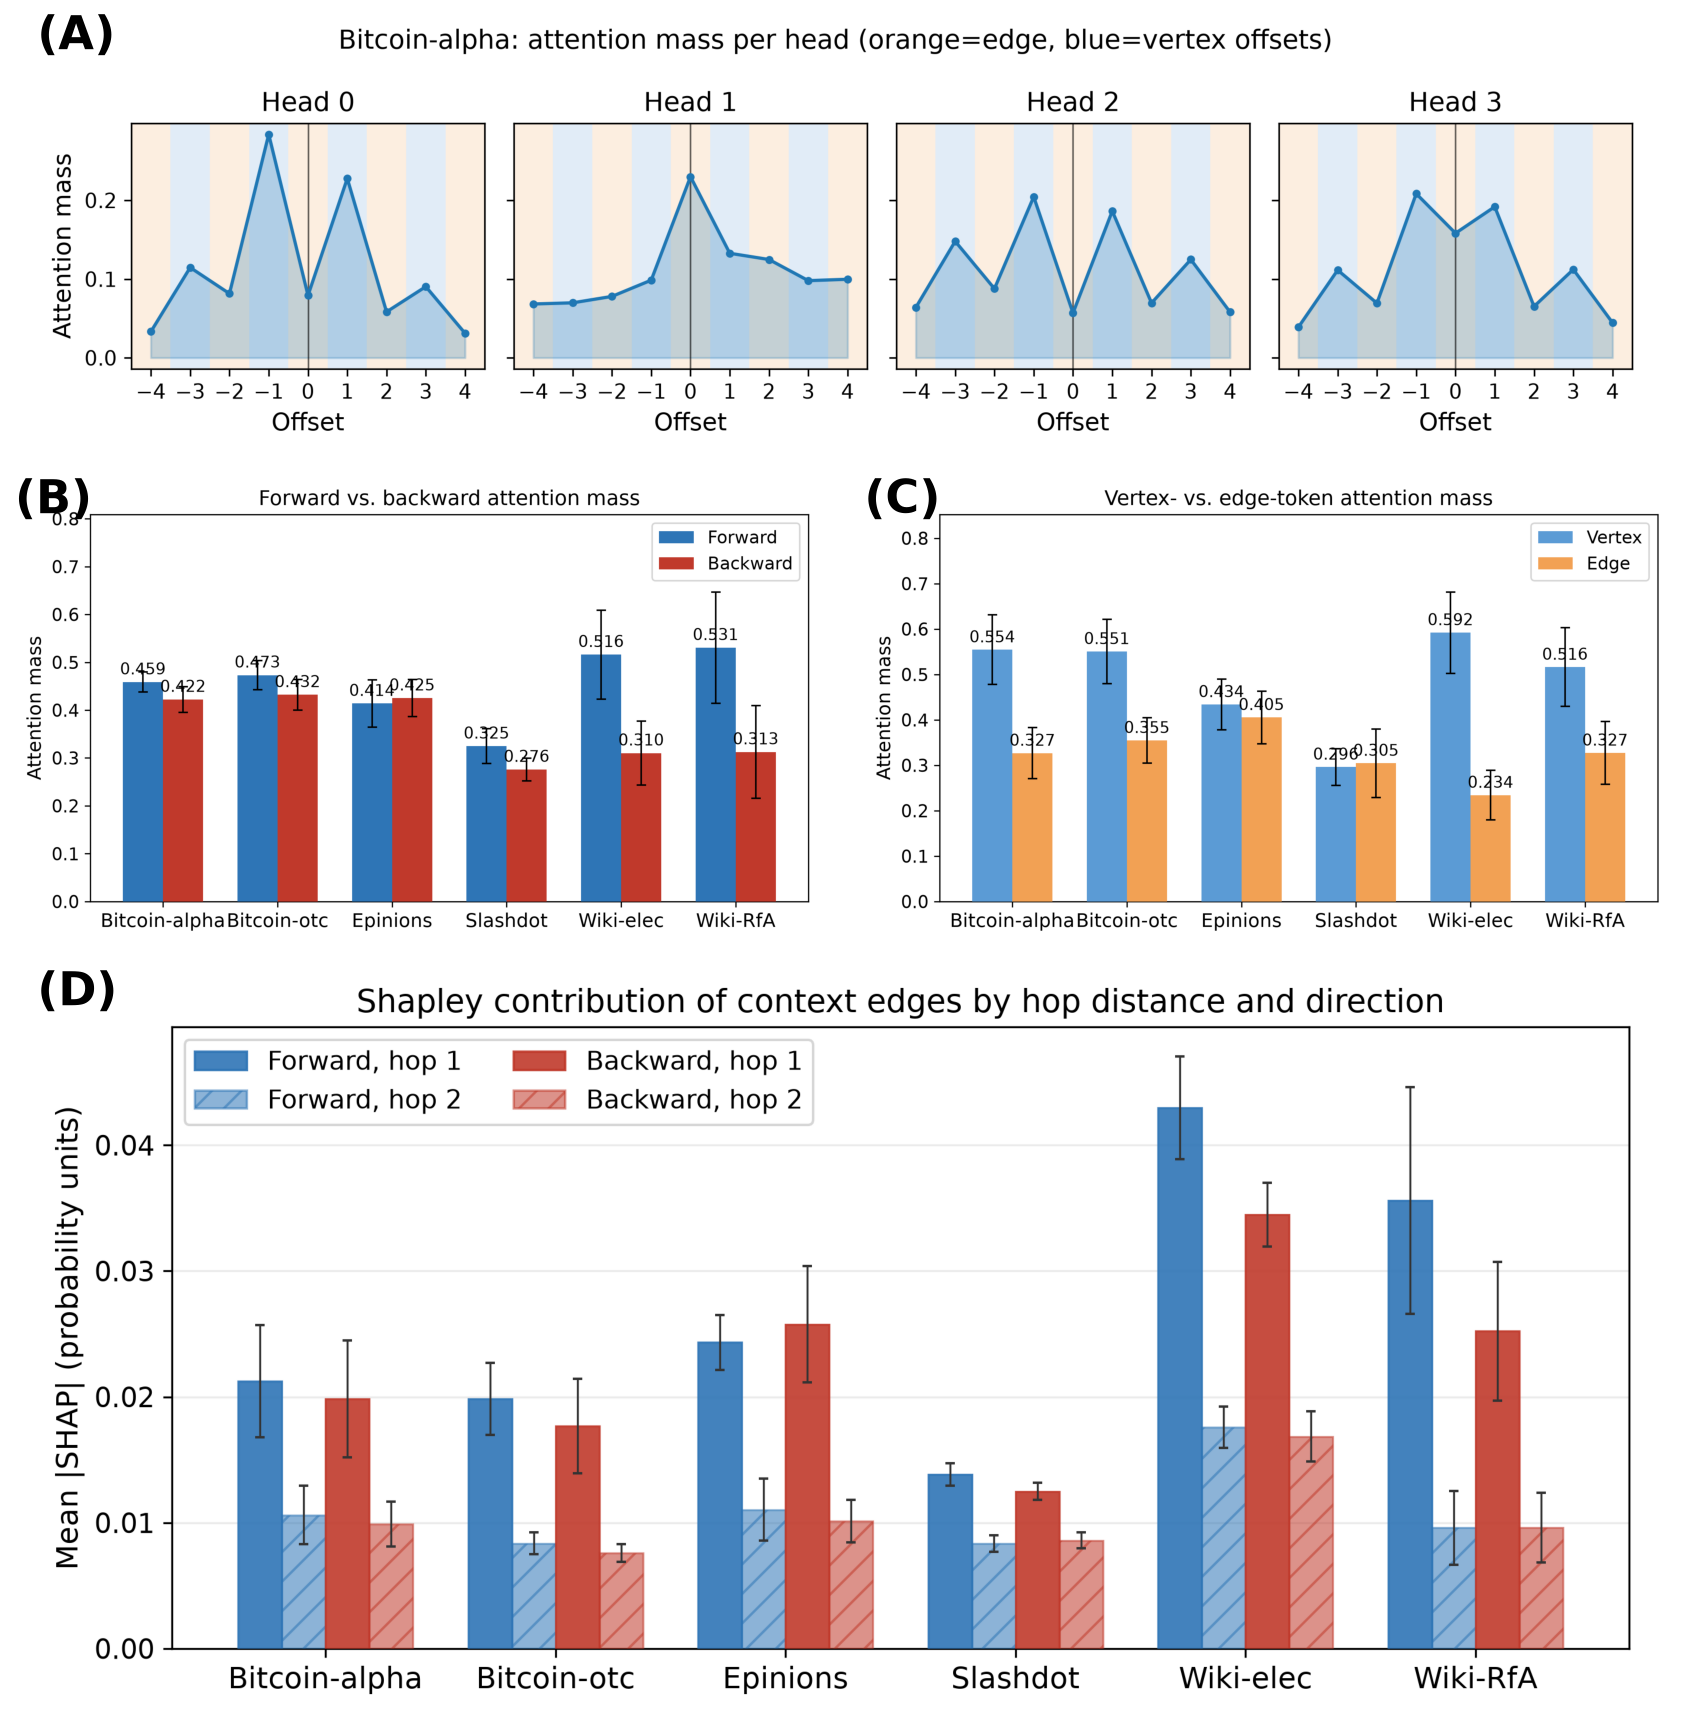
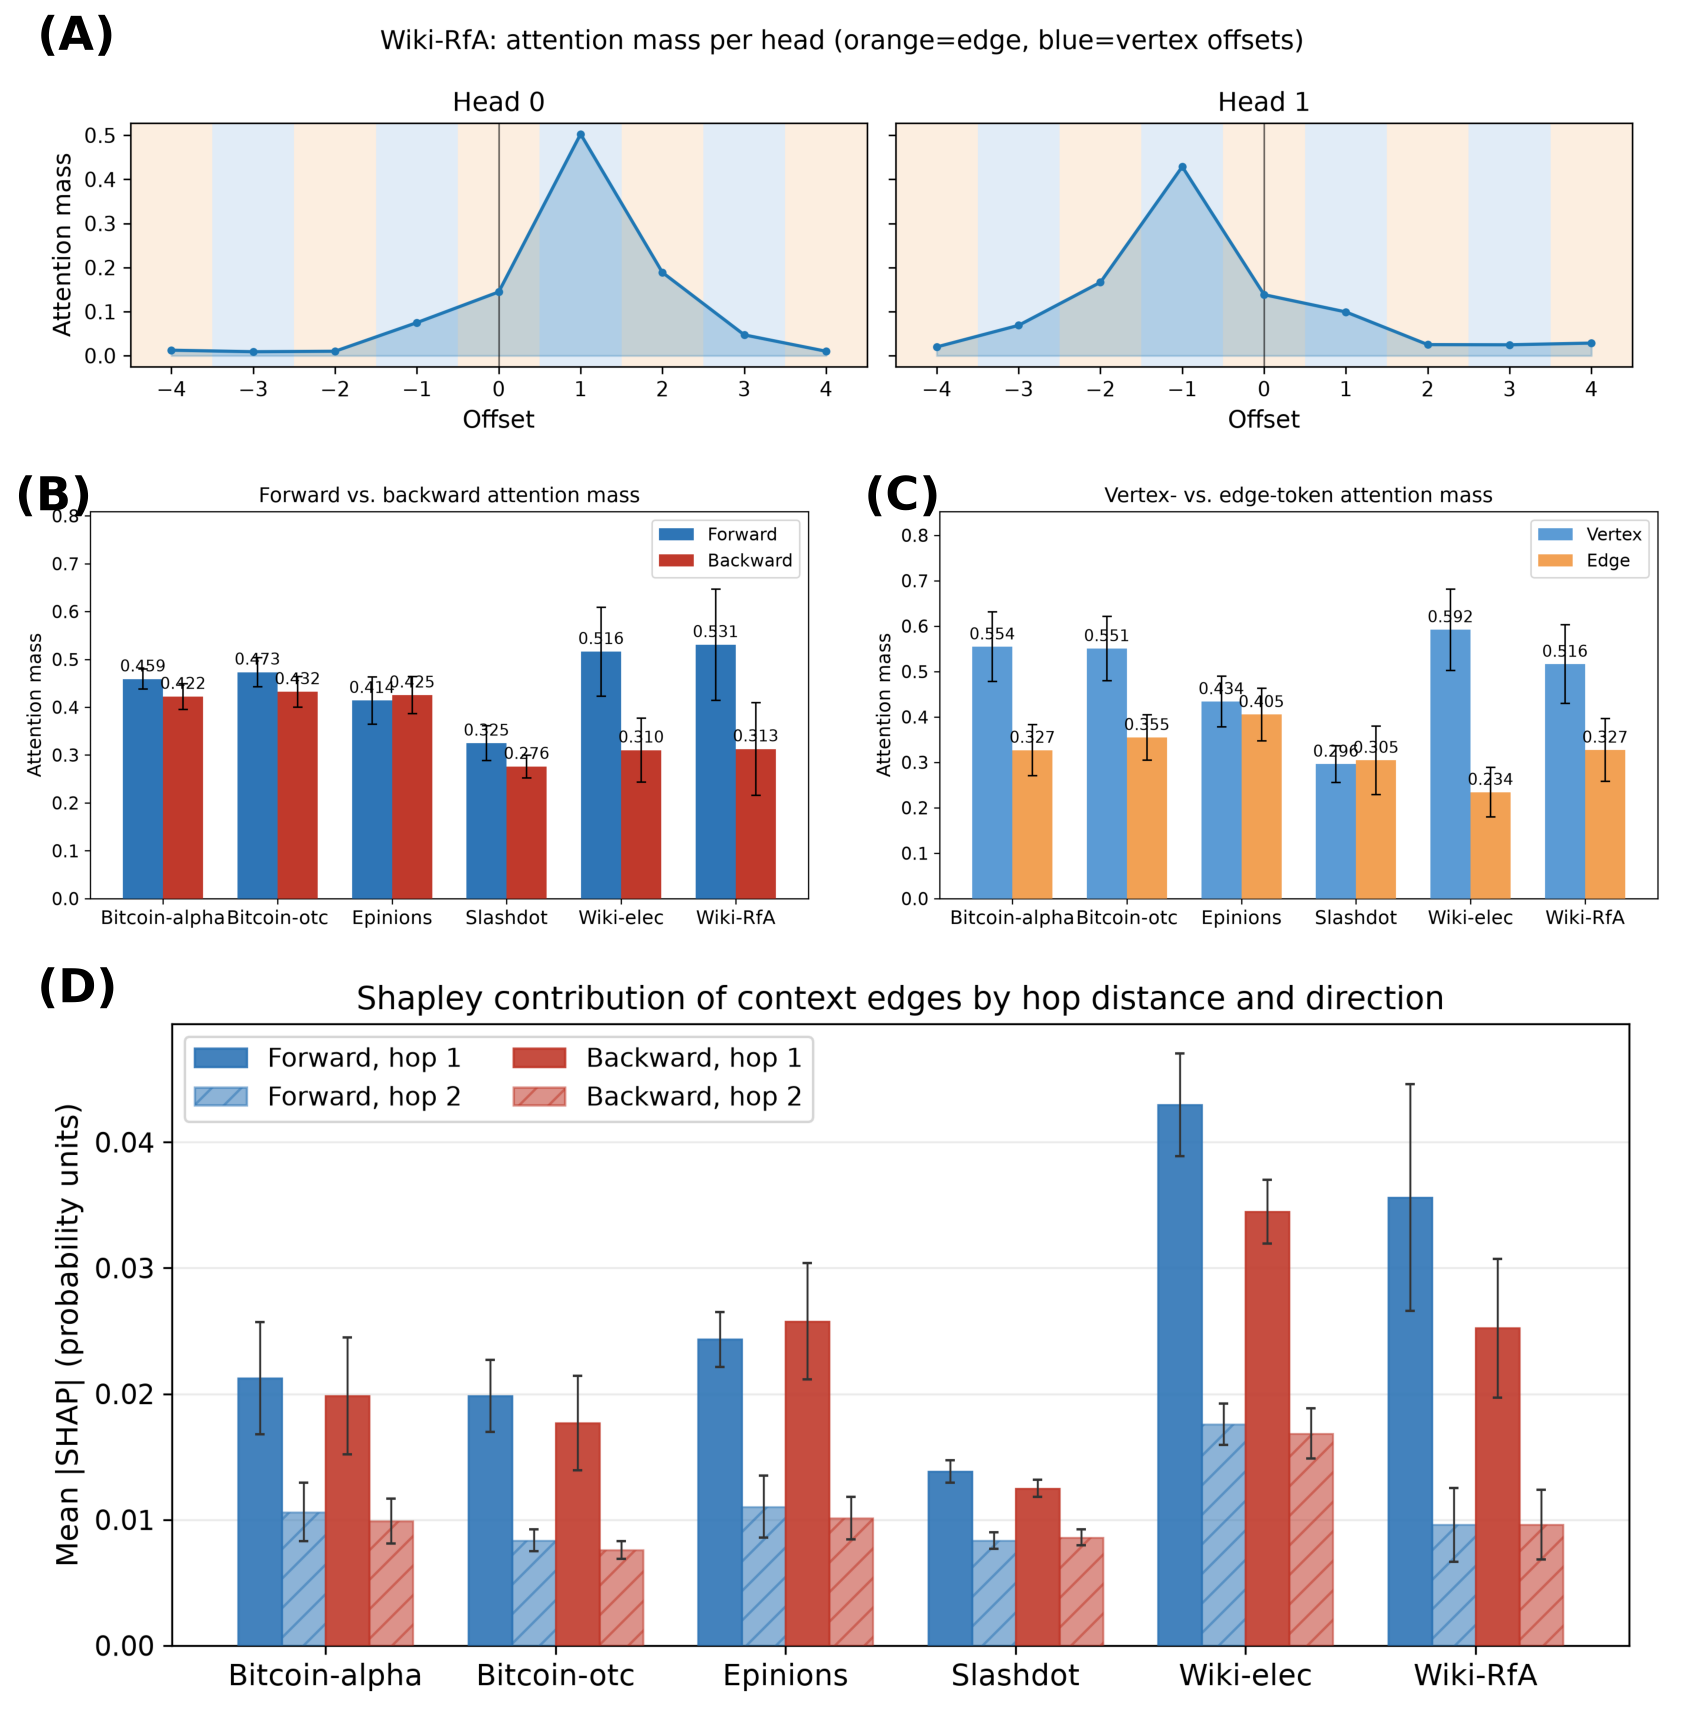
thesis text done

diff --git a/thesis/thesis.tex b/thesis/thesis.tex
@@ -43,7 +43,7 @@
 \email{anon@email.com}
 
 \begin{abstract}
-Signed networks on the web, such as trust ratings on marketplaces, reviewer endorsements, and adminship votes, carry labels (signs) on edges rather than on vertices. The dominant approach for predicting such signs is vertex-centric: a graph neural network (GNN) embeds the two endpoints and maps the pair of embeddings to an edge sign. We show that this design has an inherent limit. For vertex-centric message-passing GNNs whose edge prediction depends only on endpoint representations, WL equivalence induces a residual uncertainty when edges sharing the same endpoint representations have different signs. Empirically, baseline GNN accuracy on six public signed networks falls as this entropy rises. Edge sign is correlated over a short range - the mutual information between an edge sign and a neighboring edge sign drops by roughly three to six orders of magnitude between one and two hops in a BFS from the target vertex, so the usable signal is concentrated in a small signed neighborhood. Interestingly, the signal is not symmetric and depends on the graph family. We thus propose to condition on both the signed edges and the neighboring vertices near the target edge, instead of on only the two vertex summaries. We propose Pewter, which samples walks that pass through the target edge, classifies the masked target sign with a transformer that reads each walk as a token sequence of both vertices and edges, and combines the walks containing an edge by a confidence-weighted vote. Across six public signed networks, PEWTER improves test AUC over the best baseline on every dataset, with a mean gain of 3.3 percentage points. The improvement is largest in settings with high endpoint sign heterogeneity, consistent with the proposed endpoint bottleneck. Two further empirical observations are a source/target asymmetry in the model's attention, confirmed by a Shapley-contribution check, and a dataset-specific split in whether attention mass concentrates on vertex or edge tokens.
+Signed networks on the web, such as trust ratings on marketplaces, reviewer endorsements, and adminship votes, carry labels (signs) on edges rather than on vertices. The dominant approach for predicting such signs is vertex-centric: a graph neural network (GNN) embeds the two endpoints and maps the pair of embeddings to an edge sign. We show that this design has an inherent limit. For vertex-centric message-passing GNNs whose edge prediction depends only on endpoint representations, WL equivalence induces a residual uncertainty when edges sharing the same endpoint representations have different signs. Empirically, baseline GNN accuracy on six public signed networks falls as this entropy rises. Edge sign is correlated over a short range - the mutual information between an edge sign and a neighboring edge sign drops by roughly three to six orders of magnitude between one and two hops in a BFS from the target vertex, so the usable signal is concentrated in a small signed neighborhood. Interestingly, the signal is not symmetric and depends on the graph family. We thus propose to condition on both the signed edges and the neighboring vertices near the target edge, instead of on only the two vertex summaries. We propose Pewter, which samples walks that pass through the target edge, classifies the masked target sign with a transformer that reads each walk as a token sequence of both vertices and edges, and combines the walks containing an edge by a confidence-weighted vote. Across six public signed networks, PEWTER improves test AUC over the best baseline on every dataset, with a mean gain of 3.3 percentage points. The improvement is largest in settings with high endpoint sign heterogeneity, consistent with the proposed endpoint bottleneck. Two further empirical observations are a source/target asymmetry in the model's attention, confirmed by a Shapley-contribution check, and a preference of attention for vertex over edge tokens.
 \end{abstract}
 
 %% ACM Computing Classification System (CCS) Concepts
@@ -394,7 +394,7 @@ Attention allocation describes where the model places computational weight and s
 \begin{figure}[t!]
 \centering
 \includegraphics[width=\linewidth]{figures/attndir_panels_abcd_combined.png}
-\caption{Attention directionality and Shapley contribution of Pewter's first layer 0 over the six datasets. For each masked target-edge, attention mass is split by signed offset $d$ (position relative to the target, in token steps) and by token role (vertex vs.\ edge); self-attention ($d=0$) is excluded. (A) Per-head breakdown for the Bitcoin-alpha dataset (4 heads) over the window $d\in[-4,4]$ (labeled ``Offset'' on the plot axis): heads alternate their peak mass between vertex and edge offsets. (B) Forward vs.\ backward mass by dataset, mean over heads. (C) Vertex vs.\ edge mass by dataset, mean over heads. (D) Shapley contribution of context edges by hop distance and direction.}
+\caption{Attention directionality at Pewter's first layer (layer 0) and Shapley contribution of context edges, over the six datasets. For each masked target-edge, attention mass is split by signed offset $d$ (position relative to the target, in token steps) and by token role (vertex vs.\ edge); self-attention ($d=0$) is excluded from (B) and (C). (A) Per-head breakdown for the Wiki-RfA dataset (2 heads) over the window $d\in[-4,4]$ (labeled ``Offset'' on the plot axis), for one trained model (split 42): one head concentrates on the target vertex ($d=+1$), the other on the source vertex ($d=-1$). (B) Forward vs.\ backward mass by dataset, mean over heads. (C) Vertex vs.\ edge mass by dataset, mean over heads. (D) Shapley contribution of context edges by hop distance and direction. (B)--(D) show the mean over the 10 models trained on the 10 splits; error bars are $\pm1$ std across models.}
 \label{fig:attndir}
 \end{figure}
 
@@ -480,6 +480,6 @@ This work predicts trust and distrust signs on publicly available social and mar
 There is no funding to report
 \end{acks}
 \bibliographystyle{ACM-Reference-Format}
-\bibliography{pewter_references}
+\bibliography{references}
 
 \end{document}

diff --git a/experiments/edge_identity_tokens/eid_attention_multiseed_figure_data.py b/experiments/edge_identity_tokens/eid_attention_multiseed_figure_data.py
@@ -1,9 +1,12 @@
 """Thesis attention figure, panels B-D: mean over the 10 trained H3 models (splits 42-51), error bars =
 std across models (decided 2026-10-20; WSDM used one model, split 42, with SE across target edges).
-Panel A stays the split-42 Bitcoin-alpha per-head grid (heads are not comparable across models).
+Panel A: one model, Wiki-RfA split 42 (chosen 2026-10-21; WSDM showed Bitcoin-alpha split 42). Heads are
+not comparable across models, so A is not averaged; a target-vertex head (d=+1) recurs in 8/10 Wiki-RfA models
+(outputs/attn_shap_multiseed/h3_pmf, attn_headgrid_multiseed.py).
 
 Inputs: outputs/attn_shap_multiseed/{attention,shap}_per_seed.csv (attn_shap_multiseed.py --summarise).
 Writes, in the schemas the unchanged WSDM plot scripts read (thesis_figure_data/):
+  attndir_panelA_headgrid.csv,
   attndir_panelBC_summary.csv, attndir_panelBC_se.csv, shap_edge_directionality.csv
 The WSDM panel B/C plot scripts draw yerr = 1.96 * <x>_se, panel D draws yerr = cluster_se; to get
 +-1 std across models we store <x>_se = std / 1.96 and cluster_se = std. The split-42 versions are kept
@@ -18,10 +21,19 @@ import pandas as pd
 ROOT = os.path.dirname(os.path.dirname(os.path.dirname(os.path.abspath(__file__))))
 SRC = os.path.join(ROOT, "outputs", "attn_shap_multiseed")
 OUT = os.path.join(ROOT, "experiments", "edge_identity_tokens", "thesis_figure_data")
+PANEL_A = ("wiki-rfa", 42)
 DATASETS = ["bitcoin-alpha", "bitcoin-otc", "epinions", "slashdot090221", "wiki-elec", "wiki-rfa"]
 
 
 def main():
+    import numpy as np
+    ds, seed = PANEL_A
+    z = np.load(os.path.join(SRC, "h3_pmf", f"{ds}_s{seed}.npz"))
+    pmf, md = z["pmf"], int(z["max_dist"])
+    pd.DataFrame([{"dataset": ds, "layer": 0, "head": h, "d": d, "mass": float(pmf[0, h, d + md])}
+                  for h in range(int(z["nhead"])) for d in range(-4, 5)]).to_csv(
+        os.path.join(OUT, "attndir_panelA_headgrid.csv"), index=False)
+
     a = pd.read_csv(os.path.join(SRC, "attention_per_seed.csv"))
     a = a[a.model == "h3"]
     nhead = pd.read_csv(os.path.join(OUT, "attndir_panelBC_summary_s42.csv")).set_index("dataset")["nhead"]
@@ -48,7 +60,7 @@ def main():
     order = {ds: i for i, ds in enumerate(DATASETS)}
     shap = shap.sort_values(["dataset", "direction", "hop"], key=lambda c: c.map(order) if c.name == "dataset" else c)
     shap.to_csv(os.path.join(OUT, "shap_edge_directionality.csv"), index=False)
-    print(f"wrote {OUT}/attndir_panelBC_summary.csv, attndir_panelBC_se.csv, shap_edge_directionality.csv")
+    print(f"wrote {OUT}/attndir_panelA_headgrid.csv, attndir_panelBC_summary.csv, attndir_panelBC_se.csv, shap_edge_directionality.csv")
 
 
 if __name__ == "__main__":

diff --git a/scripts/paper_figures/plot_attndir_panelA_headgrid.py b/scripts/paper_figures/plot_attndir_panelA_headgrid.py
@@ -26,6 +26,7 @@ NODE_COLOR = "#5b9bd5"
 EDGE_COLOR = "#f2a154"
 
 
+PANEL_WIDTH_HEADS = None  # e.g. 4: draw a 2-head panel at the width of a 4-head one (thesis)
 DISPLAY_LABEL = {
     "bitcoin-alpha": "Bitcoin-alpha", "bitcoin-otc": "Bitcoin-otc", "epinions": "Epinions",
     "slashdot090221": "Slashdot", "wiki-elec": "Wiki-elec", "wiki-rfa": "Wiki-RfA",
@@ -44,7 +45,8 @@ def main():
         by_head[int(r["head"])][int(r["d"])] = float(r["mass"])
 
     nhead = len(heads)
-    fig, axes = plt.subplots(1, nhead, figsize=(2.8 * nhead, 3.0), sharey=True, squeeze=False)
+    width_heads = max(nhead, PANEL_WIDTH_HEADS or nhead)  # keep font size when a model has few heads
+    fig, axes = plt.subplots(1, nhead, figsize=(2.8 * width_heads, 3.0), sharey=True, squeeze=False)
     axes = axes[0]
 
     d_range = list(range(-window, window + 1))

diff --git a/experiments/edge_identity_tokens/make_thesis_figures.py b/experiments/edge_identity_tokens/make_thesis_figures.py
@@ -52,6 +52,7 @@ def attention_figure():
     import plot_attndir_panelB_direction as b
     import plot_attndir_panelC_nodeedge as c
     import plot_shap_edge_directionality as d
+    a.PANEL_WIDTH_HEADS = 4  # Wiki-RfA has 2 heads; keep WSDM's 4-head panel width so fonts match
     a.IN_CSV, a.OUT_PNG = os.path.join(DATA, "attndir_panelA_headgrid.csv"), os.path.join(FIG, "attndir_panelA_headgrid.png")
     for mod, name in ((b, "attndir_panelB_direction.png"), (c, "attndir_panelC_nodeedge.png")):
         mod.YLIM_INCLUDE_ERR = True  # error bars are std across the 10 models, taller than WSDM's SEs

diff --git a/thesis/REWRITE_CHECKLIST.md b/thesis/REWRITE_CHECKLIST.md
@@ -9,7 +9,7 @@ Status: TODO / PROPOSED / APPROVED+APPLIED / NO CHANGE
 | # | item | type | status |
 |---|---|---|---|
 | 0 | copy WSDM tex + bib into thesis/ (identical) | setup | done 2026-10-15 |
-| 1 | Abstract | 1a: keep "3.3pp" (user: local attention is the presented model; H3 local - best baseline = 3.32). 1b: last sentence (vertex/edge split) on hold until item 20 | 1a NO CHANGE, 1b ON HOLD |
+| 1 | Abstract | 1a: keep "3.3pp" (user: local attention is the presented model; H3 local - best baseline = 3.32). 1b: last sentence (vertex/edge split) on hold until item 20 | 1a NO CHANGE, 1b APPLIED 2026-10-22 ("a preference of attention for vertex over edge tokens") |
 | 2 | Introduction | check | NO CHANGE (approved 2026-10-19) |
 | 3 | Related work | check | NO CHANGE (approved 2026-10-19) |
 | 4 | Contributions | check (bullet 5 entropy pattern: H3 matches production, regression rerun at item 11) | NO CHANGE (approved 2026-10-19) |
@@ -28,7 +28,7 @@ Status: TODO / PROPOSED / APPROVED+APPLIED / NO CHANGE
 | 17 | sign scramble / identity scramble: LEFT OUT. Identity scramble = consistent relabeling in train+eval -> no information removed, null by construction (design flaw). Sign scramble = informationally same as grid row "signs hidden" (also scrambled in training) | DISCUSS | NO CHANGE (approved 2026-10-20) |
 | 18 | New abl: pair-only attention: P2 paragraph (facts + embeddings-carry-most sentence) after grid table | DISCUSS | APPROVED+APPLIED 2026-10-20 |
 | 19 | Complexity: 19a param sentence DROPPED (vertex table never mentioned either); 19b "4 to 70 minutes" (same rule as WSDM: shortest-longest single run) | numbers | APPROVED+APPLIED 2026-10-20 |
-| 20 | Attention section: 20a figure B-D = mean over 10 models +-std (A1: panel A split 42), SHAP removal = identity+sign; 20b fwd/bwd paragraph APPLIED (option ii, ending trimmed); 20c vertex/edge APPLIED (descriptive); 20d SHAP APPLIED (decay + hop-1 direction + agreement); 20e caption, 20f abstract 1b | DISCUSS | IN PROGRESS |
+| 20 | Attention section: 20a figure B-D = mean over 10 models +-std (A1: panel A split 42), SHAP removal = identity+sign; 20b fwd/bwd paragraph APPLIED (option ii, ending trimmed); 20c vertex/edge APPLIED (descriptive); 20d SHAP APPLIED (decay + hop-1 direction + agreement); 20e caption APPLIED (panel A = Wiki-RfA split 42, no recurrence claim; self excluded from B/C; B-D = 10-model mean +-std); 20f abstract 1b APPLIED (option a) | DISCUSS | APPROVED+APPLIED 2026-10-22 |
 | 21 | Full proofs | check (pure math; only Pewter mention is the aggregator table caption, done in 13) | NO CHANGE (approved 2026-10-20) |
-| 22 | Discussion / limitations | DISCUSS (small) | TODO |
-| 23 | Ethics | check | TODO |
+| 22 | Discussion / limitations | DISCUSS (small): para 1 option B (no edge-identity sentence), para 2 unchanged ("approx 1pp" kept) | NO CHANGE (approved 2026-10-22) |
+| 23 | Ethics | check (per-edge vectors store only public data) | NO CHANGE (approved 2026-10-20) |

diff --git a/experiments/edge_identity_tokens/THESIS_PLAN_20261013.md b/experiments/edge_identity_tokens/THESIS_PLAN_20261013.md
@@ -152,3 +152,10 @@ in training AND evaluation -> a pure relabeling of identity-table rows, no infor
 result is guaranteed. A valid test would scramble at evaluation only, or re-randomize per occurrence.
 Sign scramble (fixed 50% liars, train+eval) makes the presented sign independent of the true sign ->
 equivalent to hiding context signs (grid row "vertices + identities"). Both left out of the thesis.
+
+## 12. 2026-10-22: thesis text pass complete
+All 23 checklist items in thesis/REWRITE_CHECKLIST.md approved item by item (applied or no change).
+thesis/thesis.tex vs WSDM: 65 insertions / 32 deletions. Attention figure: panel A = Wiki-RfA split 42,
+B-D = mean over 10 models +-std (eid_attention_multiseed_figure_data.py -> make_thesis_figures.py).
+Not yet done: compile (no LaTeX on this machine), full read-through, optional grid-table header
+style (two-level "Visible"), canonical refactor + clean public repo.
